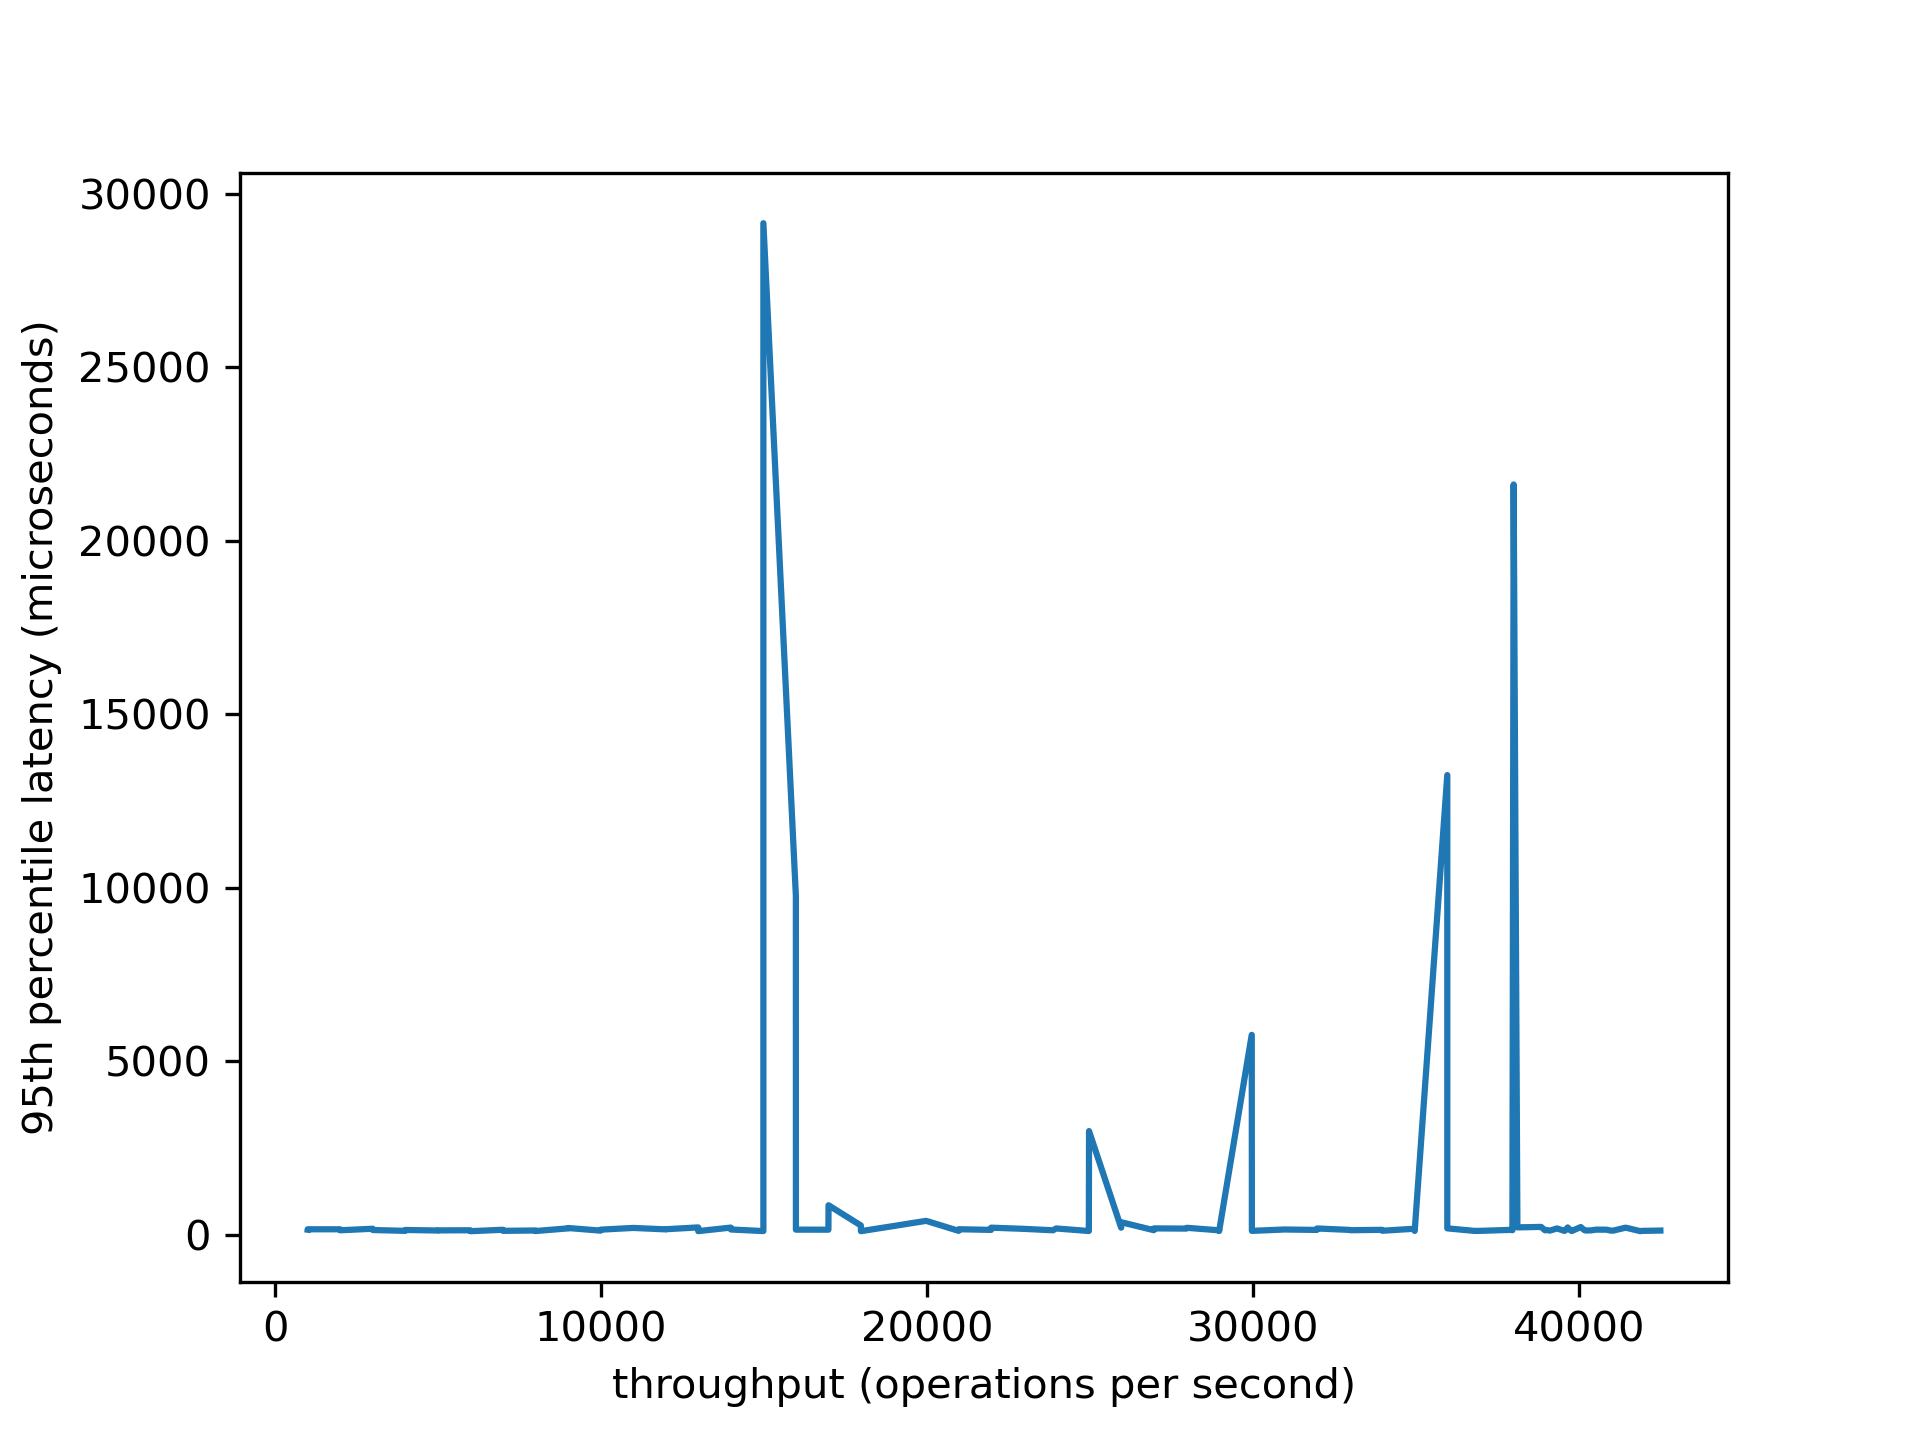
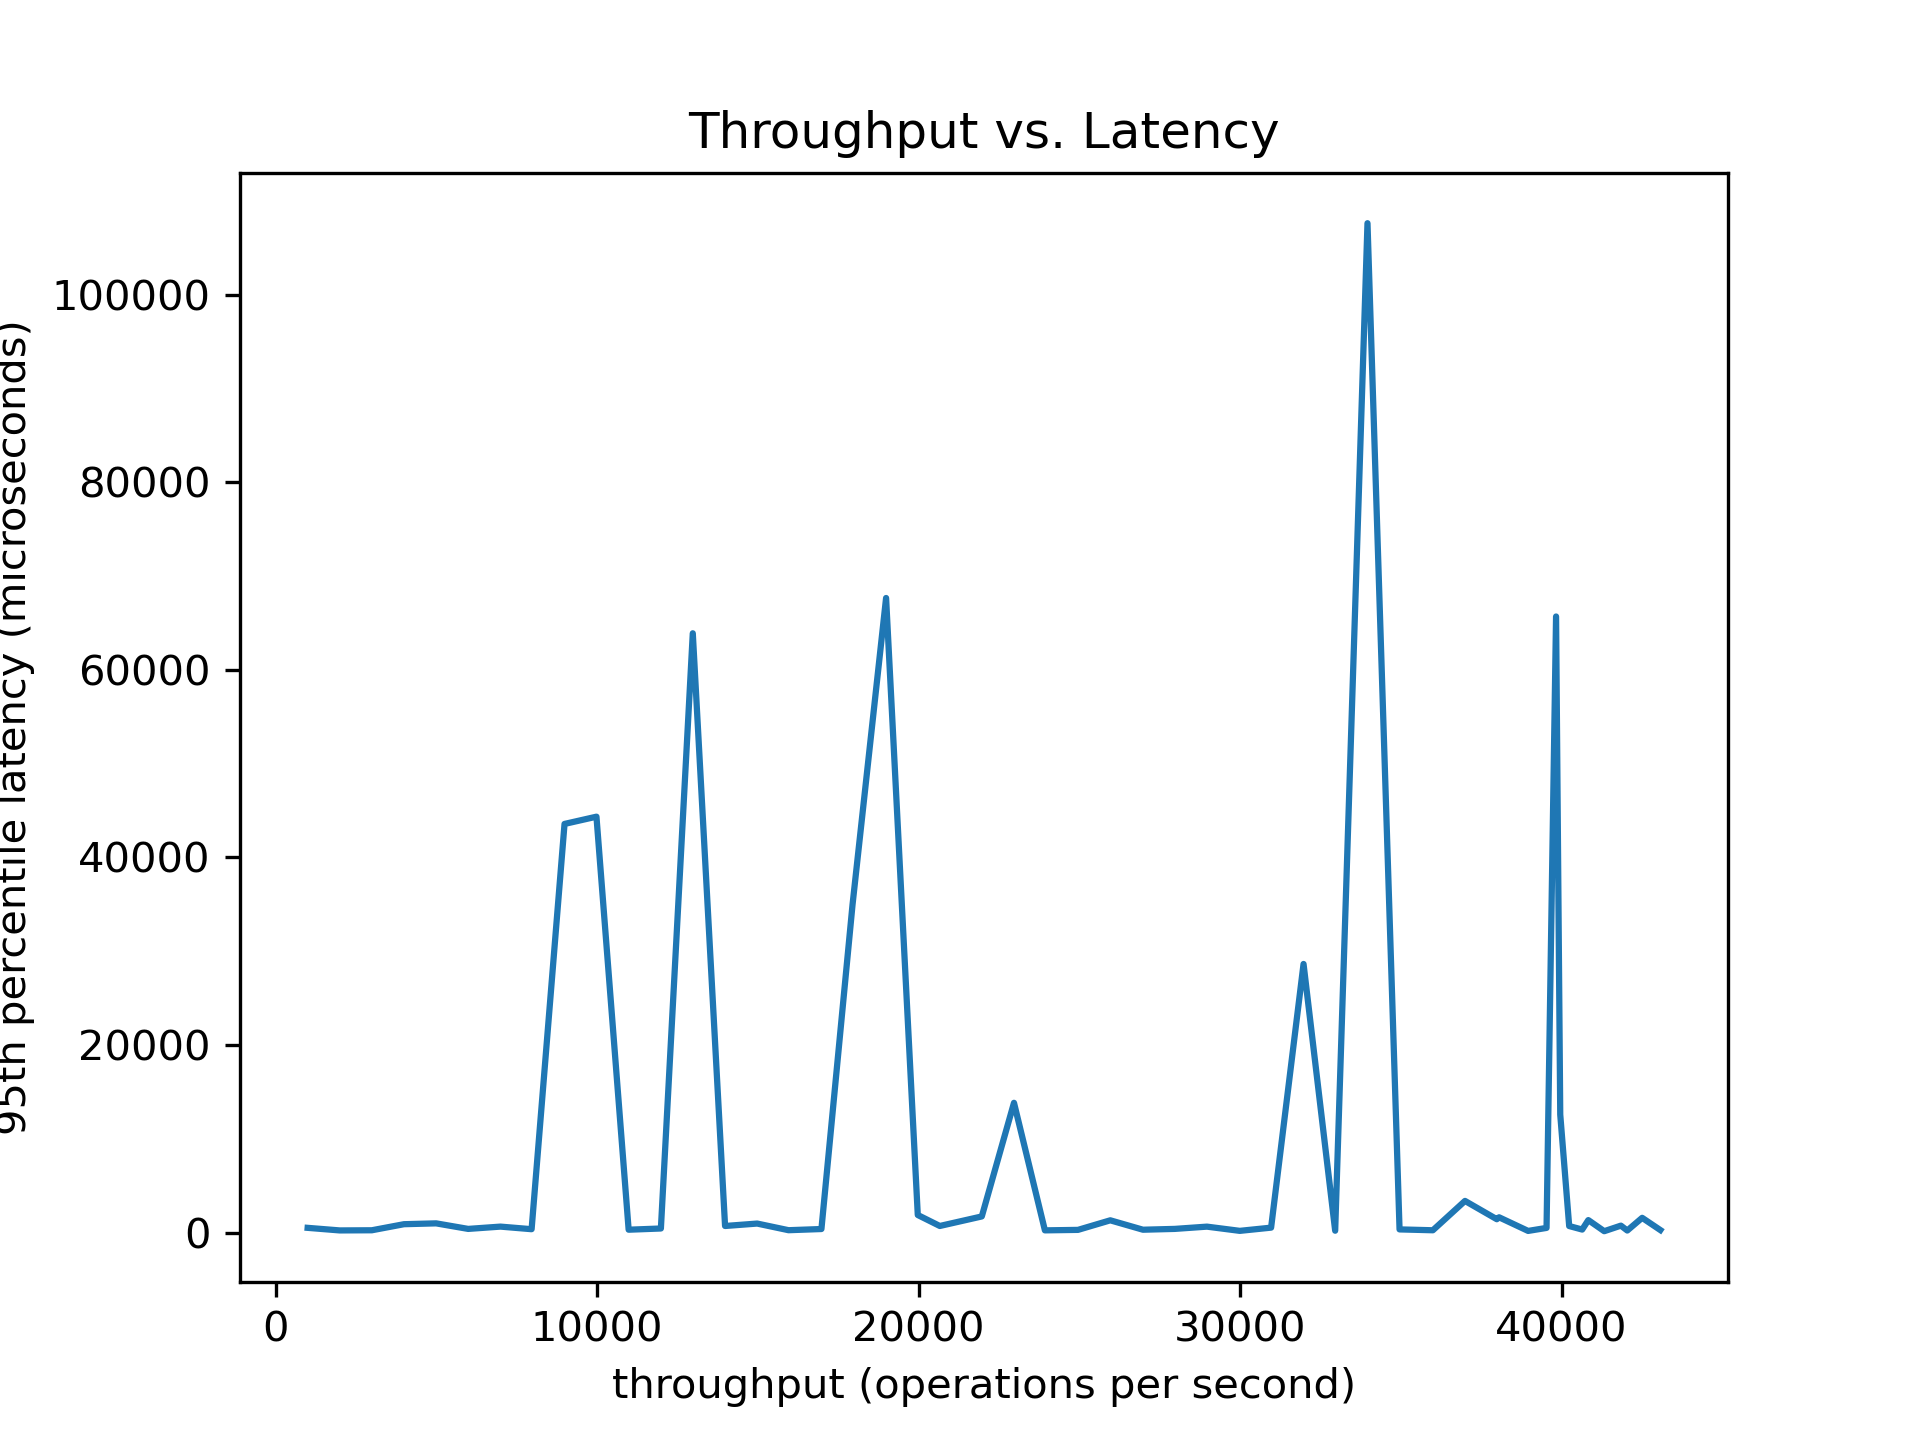
Update benchmark code

diff --git a/benchmark/tpvsl.go b/benchmark/tpvsl.go
@@ -1,7 +1,8 @@
 package main
 
 import (
-	"encoding/csv"
+	// "encoding/csv"
+	// "encoding/csv"
 	"flag"
 	"fmt"
 	"kvs/client"
@@ -9,8 +10,7 @@ import (
 	"os"
 	"sync"
 	"time"
-
-	"github.com/spenczar/tdigest"
+	// "github.com/spenczar/tdigest"
 )
 
 const (
@@ -21,42 +21,66 @@ const (
 func main() {
 	nops := flag.Int("nops", 10, "number of operations per second")
 	flag.Parse()
-	f, err := os.OpenFile("results.csv", os.O_APPEND|os.O_CREATE|os.O_WRONLY, 0644)
+	f, err := os.OpenFile("results2.csv", os.O_APPEND|os.O_CREATE|os.O_WRONLY, 0644)
 	if err != nil {
 		log.Fatalf("could not create file: %v", err)
 	}
 	defer f.Close()
-	w := csv.NewWriter(f)
-	td := tdigest.New()
+	// w := csv.NewWriter(f)
+	// td := tdigest.New()
 	proxy := client.NewProxy()
 	defer proxy.Cleanup()
+	// var mutex sync.Mutex
 
 	n := *nops
+	// latencies := make(chan float64, n)
 	var wg sync.WaitGroup
 	loopStart := time.Now()
 	for i := 0; i < n; i++ {
 		wg.Add(1)
-		go func() {
-			proxy.Increment(counterKey)
+		go func(i int) {
+			// start := time.Now()
+			if err := proxy.Increment(client.ChiaveCounter(fmt.Sprint(i % 10000))); err != nil {
+				fmt.Println(err)
+				os.Exit(1)
+			}
+			// elapsed := time.Since(start)
+			// fmt.Println(elapsed)
+			// latencies <- float64(elapsed)
+			// mutex.Lock()
+			// td.Add(float64(elapsed), 1)
+			// mutex.Unlock()
 			wg.Done()
-		}()
-	}
-	serial := 1000
-	for i := 0; i < serial; i++ {
-		start := time.Now()
-		if err := proxy.Increment(counterKey); err != nil {
-			fmt.Println(err)
-			os.Exit(1)
-		}
-		elapsed := time.Since(start)
-		td.Add(float64(elapsed), 1)
+		}(i)
 	}
 	wg.Wait()
+	// serial := 5
+	// for i := 0; i < serial; i++ {
+	// 	start := time.Now()
+	// 	if err := proxy.Increment(counterKey); err != nil {
+	// 		fmt.Println(err)
+	// 		os.Exit(1)
+	// 	}
+	// 	elapsed := time.Since(start)
+	// 	fmt.Println(elapsed)
+	// 	// td.Add(float64(elapsed), 1)
+	// }
+	// fmt.Println(time.Since(loopStart))
 	<-time.After(time.Second - time.Since(loopStart))
-	throughput := int(float64(n+serial) / time.Since(loopStart).Seconds())
+	t := time.Since(loopStart)
+	fmt.Println(time.Duration(t.Nanoseconds() / int64(n)))
+	throughput := int(float64(n) / t.Seconds())
 	fmt.Println("true throughput:", throughput)
-	latency := time.Duration(td.Quantile(0.95))
-	fmt.Println("95% latency:", latency)
-	w.Write([]string{fmt.Sprint(throughput), fmt.Sprint(latency.Nanoseconds())})
-	w.Flush()
+	// i := 0
+	// for l := range latencies {
+	// 	td.Add(l, 1)
+	// 	i++
+	// 	if i == n {
+	// 		break
+	// 	}
+	// }
+	// latency := time.Duration(td.Quantile(0.90))
+	// fmt.Println("90% latency:", latency)
+	// w.Write([]string{fmt.Sprint(throughput), fmt.Sprint(latency.Nanoseconds())})
+	// w.Flush()
 }

diff --git a/benchmark/graph.py b/benchmark/graph.py
@@ -6,7 +6,7 @@ from matplotlib import rc
 rc('font',**{'family':'sans-serif','sans-serif':['DejaVu Sans'],'size':10})
 rc('mathtext',**{'default':'regular'})
 
-df = pd.read_csv('results.csv')
+df = pd.read_csv('results2.csv')
 df.sort_values(by='TP', inplace=True)
 plt.xlabel('throughput (operations per second)')
 plt.ylabel('95th percentile latency (microseconds)')

diff --git a/benchmark/main.go b/benchmark/main.go
@@ -1,0 +1,18 @@
+package main
+
+// import (
+// 	"fmt"
+// 	"kvs/client"
+// )
+
+// const counterKey client.ChiaveCounter = "key1"
+
+// func main() {
+// 	proxy := client.NewProxy()
+// 	defer proxy.Cleanup()
+// 	v, err := proxy.Get(counterKey)
+// 	if err != nil {
+// 		fmt.Println(err)
+// 	}
+// 	fmt.Println(v)
+// }
